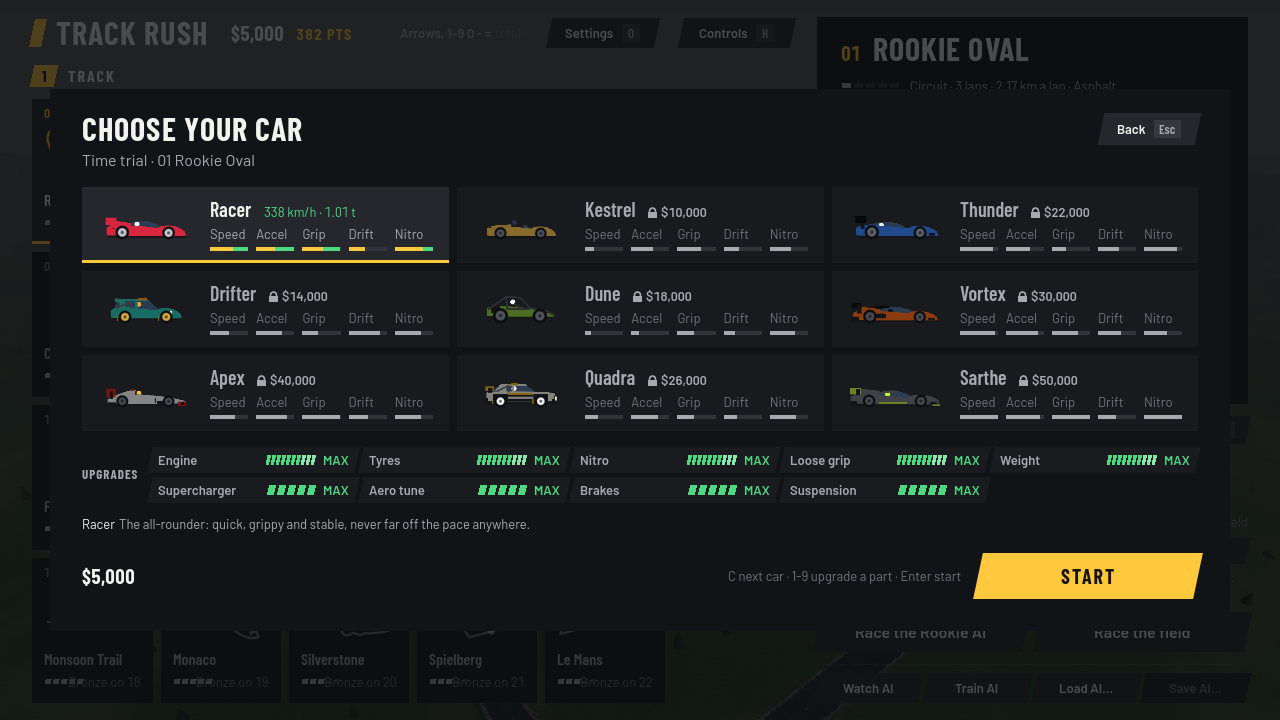
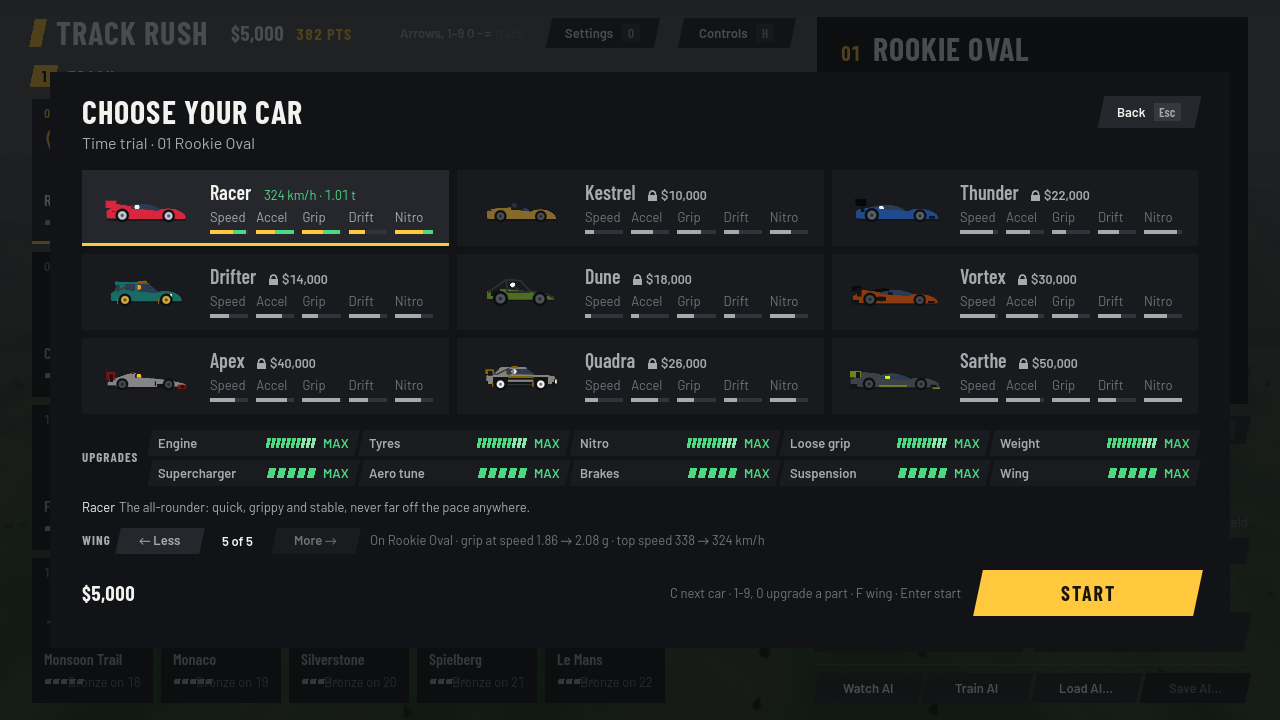
WIP 6.38.0: rear-biased wing downforce, re-measured, docs
Claude-Session: https://claude.ai/code/session_01EkEbLvJyiecN6T3vwM1HXQ

diff --git a/README.md b/README.md
@@ -812,7 +812,7 @@ $105k). Click a chip (or press its number, 1 to 9 and 0 for the tenth, or highli
 first and says what the level does and what is left. A car you don't own shows its parts greyed out: buy the car
 first. The car's stat bars then show the stock car in white (yellow when picked) and what the upgrades add in green;
 its top speed and weight turn green when the top speed is higher or the car lighter (at 1280 x 720 and in narrower
-windows the ten chips stand in two rows of five; in a window under about 900 px wide, three rows of four, four and two). The `upgrade` and `buy <car> <part>` commands of
+windows the ten chips stand in two rows of five; in narrower windows, rows of four or three). The `upgrade` and `buy <car> <part>` commands of
 [the terminal](#the-terminal) do the same.
 
 Levels 1-3 each add the part's full step (as in versions 6.11-6.15, exactly); levels 4-10 add less and less (0.8,
@@ -956,7 +956,7 @@ other gears, the downforce, the grip and the brakes stay as they were. It is fit
 Every level adds 4-9 km/h at the top, and the time to 200 km/h drops 2-15 % too (less drag to push through; most on
 the slower, draggier cars like the Dune and the Kestrel). The
 measurements were made on weight level 5 (`tools/upgrades.gd`); the last column measures each car with every part at
-its top. The nitro can't push the top speed further with the tune fitted: the longer top gear runs into the rev limiter
+its top (as of version 6.35.0: [the wing](#the-wing) at 5 takes 1.5-5 % off again, so turn it down on a fast track). The nitro can't push the top speed further with the tune fitted: the longer top gear runs into the rev limiter
 at the new top speed. `buy <car> aero` points at the car page; `upgrade <car> aero <0-5>` sets it for free on weight 5
 or above (a weight set below 5 takes it off).
 
@@ -1032,26 +1032,28 @@ suspension <0-5>` sets it for free. The AI opponents keep the stock suspension.
 Version 6.38.0 adds a tenth part, the **wing**: five levels, open from the start and bought like the brakes (no trial;
 key 0 on the car page; 0.15, 0.3, 0.55, 0.85, 1.25 × the car's price × 0.9). Each level adds downforce worth **5 % of
 the car's weight at 180 km/h** (level 5: 25 %; downforce grows with the square of the speed, so at 90 km/h it is a
-quarter of that) and **2 % more drag**. It is the opposite trade to [the aero tune](#the-aero-tune): grip in fast
+quarter of that), 70 % of it on the rear wheels, and **2 % more drag**. With the wing pressing mostly on the back the car
+stays as steady at speed as before (with the car's own front/rear split the fully upgraded Thunder weaved under the
+keyboard at 240 km/h). It is the opposite trade to [the aero tune](#the-aero-tune): grip in fast
 corners for a little top speed.
 
 | Car | Wing levels 1 / 2 / 3 / 4 / 5 | All five | Grip in a fast corner (120 m circle): stock → wing 5 | Top speed: stock → wing 5 |
 | --- | --- | --- | --- | --- |
-| Racer | $1,600 / $3,250 / $5,950 / $9,200 / $13,500 | $33,500 | 1.58 → 1.76 g (+11 %) | 278 → 266 km/h (-4 %) |
+| Racer | $1,600 / $3,250 / $5,950 / $9,200 / $13,500 | $33,500 | 1.58 → 1.70 g (+8 %) | 278 → 266 km/h (-4 %) |
 | Kestrel | $1,350 / $2,700 / $4,950 / $7,650 / $11,250 | $27,900 | 1.59 → 1.68 g (+6 %) | 230 → 224 km/h (-3 %) |
-| Thunder | $2,950 / $5,950 / $10,900 / $16,850 / $24,750 | $61,400 | 1.56 → 1.77 g (+13 %) | 313 → 299 km/h (-4 %) |
-| Drifter | $1,900 / $3,800 / $6,950 / $10,700 / $15,750 | $39,100 | 1.52 → 1.70 g (+12 %) | 264 → 255 km/h (-4 %) |
+| Thunder | $2,950 / $5,950 / $10,900 / $16,850 / $24,750 | $61,400 | 1.56 → 1.64 g (+5 %) | 313 → 299 km/h (-4 %) |
+| Drifter | $1,900 / $3,800 / $6,950 / $10,700 / $15,750 | $39,100 | 1.52 → 1.64 g (+8 %) | 264 → 255 km/h (-4 %) |
 | Dune | $2,450 / $4,850 / $8,900 / $13,750 / $20,250 | $50,200 | 1.43 → 1.55 g (+8 %) | 222 → 215 km/h (-3 %) |
-| Vortex | $4,050 / $8,100 / $14,850 / $22,950 / $33,750 | $83,700 | 1.75 → 2.07 g (+18 %) | 321 → 317 km/h (-1.5 %) |
-| Apex | $5,400 / $10,800 / $19,800 / $30,600 / $45,000 | $111,600 | 2.42 → 2.37 g (see below) | 284 → 272 km/h (-4 %) |
-| Quadra | $3,500 / $7,000 / $12,850 / $19,900 / $29,250 | $72,500 | 1.52 → 1.69 g (+11 %) | 245 → 236 km/h (-4 %) |
-| Sarthe | $6,750 / $13,500 / $24,750 / $38,250 / $56,250 | $139,500 | 2.34 → 2.74 g (+17 %) | 336 → 320 km/h (-5 %) |
+| Vortex | $4,050 / $8,100 / $14,850 / $22,950 / $33,750 | $83,700 | 1.75 → 1.92 g (+10 %) | 321 → 317 km/h (-1.5 %) |
+| Apex | $5,400 / $10,800 / $19,800 / $30,600 / $45,000 | $111,600 | 2.42 → 2.33 g (see below) | 284 → 272 km/h (-4 %) |
+| Quadra | $3,500 / $7,000 / $12,850 / $19,900 / $29,250 | $72,500 | 1.52 → 1.63 g (+7 %) | 245 → 236 km/h (-4 %) |
+| Sarthe | $6,750 / $13,500 / $24,750 / $38,250 / $56,250 | $139,500 | 2.34 → 2.63 g (+12 %) | 336 → 320 km/h (-5 %) |
 
-Slow corners change less (the 30 m circle: 4-6 % more grip at level 5) and the stops get a little shorter (up to 3 %).
+Slow corners change less (the 30 m circle: 2-4 % more grip at level 5) and the stops get a little shorter (up to 3 %).
 The cars with little power lose some acceleration at high speed: the Dune takes 14.1 s to 200 km/h instead of 12.7,
-the Kestrel 12.1 instead of 11.3; the others 1-4 % longer. The **Apex**'s number doesn't move: on the 120 m circle
-its steering, not its grip, is the limit (2.42 g with any wing), so that test can't show what the wing adds; its grip
-on the slow circle rises 6 %.
+the Kestrel 12.1 instead of 11.3; the others 1-4 % longer. The **Apex**'s number doesn't rise: on the 120 m circle
+its steering, not its grip, is the limit (2.42 g stock), and the wing's weight on the rear wheels makes it run a
+little wider there; its grip on the slow circle rises 4 %, and it is quicker with the wing on twisty tracks.
 
 **Set it for each track.** When you choose a race, the car page shows a **Wing** row for that race's track: ← Less,
 how much of its wing the car uses there ("3 of 3", "2 of 3", "Off"; "None" until a level is bought) and More →, with
@@ -1059,12 +1061,15 @@ what that does to the car's grip in fast corners and its top speed. F gives more
 the row, then A). It is free and kept for each car and track (in the save file); where you haven't turned it down a car
 uses all its wing, levels bought later included. Every race uses the setting (Drive, Race the AI, Race the field, the
 cups, and My AI's runs); the training screen uses the whole wing. Records and ghosts remember the levels the run used.
-LAPS_TODO `buy <car> wing` buys the next level; `upgrade <car> wing <0-5>` sets it for free. The AI opponents
+On a lap (the medal autopilot, every car with the wing at 5 against none): 1.5-4.5 % quicker on Rookie Oval (the
+Apex 0.7 % slower: its steering is its limit there too), 1-3 % on Technical Trial, 1-2 % on Silverstone and 1-1.5 % in
+Monaco. On Banked Speedway, flat out round the banking, most cars are up to 3 % slower with it (the Thunder, which
+needs the grip there, 1.5 % quicker): turn it down or off there. `buy <car> wing` buys the next level; `upgrade <car> wing <0-5>` sets it for free. The AI opponents
 have no wing, and the medal times stay stock.
 
 | The car page, every part of the Racer bought | On the car |
 | --- | --- |
-| ![The car page with the Racer fully upgraded (every part at its top): its card's stat bars with green on top of the stock values, 338 km/h and 1.01 t in green, and the Upgrades rows under the cards with Engine, Tyres, Nitro, Loose grip and Weight all at MAX with ten pips each and the Supercharger, the Aero tune, the Brakes, the Suspension and the Wing at MAX with five, in two rows of five](docs/screenshots/upgrades.png) | ![The Racer from behind, stock and with every part at level 3: bigger exhaust tips with blue nitro bands and a yellow ring on the tyre](docs/screenshots/upgrades-car.png) |
+| ![The car page with the Racer fully upgraded (every part at its top): its card's stat bars with green on top of the stock values, 324 km/h and 1.01 t in green, and the Upgrades rows under the cards with Engine, Tyres, Nitro, Loose grip and Weight all at MAX with ten pips each and the Supercharger, the Aero tune, the Brakes, the Suspension and the Wing at MAX with five, in two rows of five, and under them the Wing row for Rookie Oval: 5 of 5, grip at speed 1.86 → 2.08 g, top speed 338 → 324 km/h](docs/screenshots/upgrades.png) | ![The Racer from behind, stock and with every part at level 3: bigger exhaust tips with blue nitro bands and a yellow ring on the tyre](docs/screenshots/upgrades-car.png) |
 
 ### Your ghost
 

diff --git a/HANDOFF.md b/HANDOFF.md
@@ -1722,8 +1722,11 @@ items; AI cars and medal times stay stock):
 - **The part.** `sim/upgrades.gd` `PARTS[9]`: id `wing`, short "D" (W is the weight), `step 0.05`, `cost 0.9`,
   `max 5`, `extra true`, the brakes' `share` list (the Racer's levels $1,600 to $13,500), no `needs`, no `trial`;
   aliases wings, downforce, spoiler, df. `changes()`: `downforce` + gain × mass × g / v² with v = 180 km/h
-  (`WING_KMH`), so a level presses down 5 % of the weight at 180 km/h, and `drag` × (1 + 0.02 × level) (`WING_DRAG`),
-  on top of the aero tune's drag cut. No native change: downforce and drag are existing CarSpec fields.
+  (`WING_KMH`), so a level presses down 5 % of the weight at 180 km/h, 30 % of that on the front axle (`WING_FRONT`:
+  `aeroFront` becomes the weighted mix with the car's own split), and `drag` × (1 + 0.02 × level) (`WING_DRAG`), on top
+  of the aero tune's drag cut. No native change: downforce, aeroFront and drag are existing CarSpec fields. With the
+  car's own split the keyboard lane-keeping test failed: the fully upgraded Thunder weaved 5.7° against 4.2° stock at
+  speed; with the rear bias 4.4°, and every car's sideslip is lower than without the wing.
 - **Per-track setup.** The first car setup in the save file: `career.setups {car: {track: {wing}}}`, kept only where
   it isn't the default (`SaveData.SETUP_KEYS {wing: [0, 5, 5]}`: lowest, highest, default; 5 = all the car has, so a
   level bought later is used). `SaveData.get_setup(car, track)` / `set_setup(car, track, key, value)` (owned cars,
@@ -1736,11 +1739,14 @@ items; AI cars and medal times stay stock):
   a cup's first track or its next one; "" hides the row): the Wing row (← Less, "3 of 3" / "Off" / "None", More →, and
   a note with grip at speed and top speed with and without it, from `Upgrades.stats`), `step_wing`, F / Shift+F, the
   pad reaches the two buttons, `setup_picked` → `UiData.set_setup`. Ten chips: one row wide, two rows of five at
-  1280 x 720, rows of four when narrow; keys 1-9 and 0 (`PART_KEYS`, `_part_keys_text`).
+  1280 x 720, rows of four or three when narrower (`_on_layout`); keys 1-9 and 0 (`PART_KEYS`, `_part_keys_text`).
 - **Measured.** `MEASURED.<car>.wing` = five `{top, accel100, accel200, brake100, grip, gripFast}` (`tools/upgrades.gd`
-  measures `D1`-`D5`); `stats()` applies them as shares. Level 5: gripFast +6 to +18 %, top speed -1.5 to -5 %, 0-200
+  measures `D1`-`D5`); `stats()` applies them as shares. Level 5: gripFast +5 to +12 %, top speed -1.5 to -5 %, 0-200
   km/h up to 11 % slower (the Dune). The Apex's gripFast doesn't rise: its 120 m skidpad run is steering-limited at
-  2.42 g, so only the drag shows (-2 %); the tests allow it. LAPS_TODO
+  2.42 g and the rear-biased wing adds understeer (-4 %); the tests allow it. Laps (`--quick --sets=D5`, five tracks):
+  Rookie Oval -1.5 to -4.3 % (the Apex +0.7 %), Technical Trial -1.3 to -2.7 %, Silverstone -0.9 to -2.2 %, Monaco -1
+  to -1.6 %, Banked Speedway +0.3 to +3.1 % (the Thunder -1.5 %): the per-track setting matters. (With the car's own
+  split the gains were about half as big again, but the Thunder weaved.)
 - **Elsewhere.** `Opponents.UPGRADES` 10 ints (no wing). The terminal: `upgrade <car> wing <0-5>`, `buy <car> wing`.
   Tests: `_wing()` in tests/test_sim.gd (measured gains, setups in the save file, buying), `start_play` with a setup in
   tests/test_game.gd, the Wing row in tests/test_ui.gd, the parts' checks, the UI's ten chips, the terminal, e2e (76
